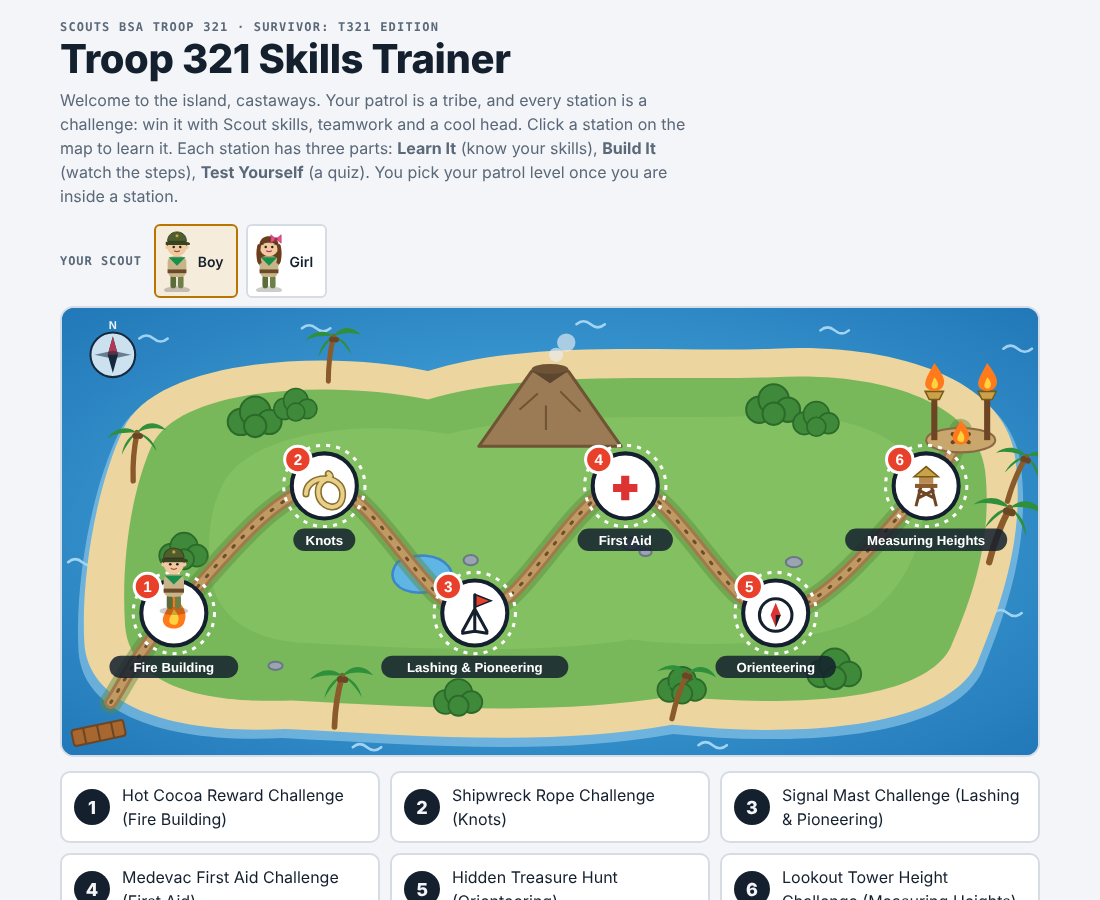
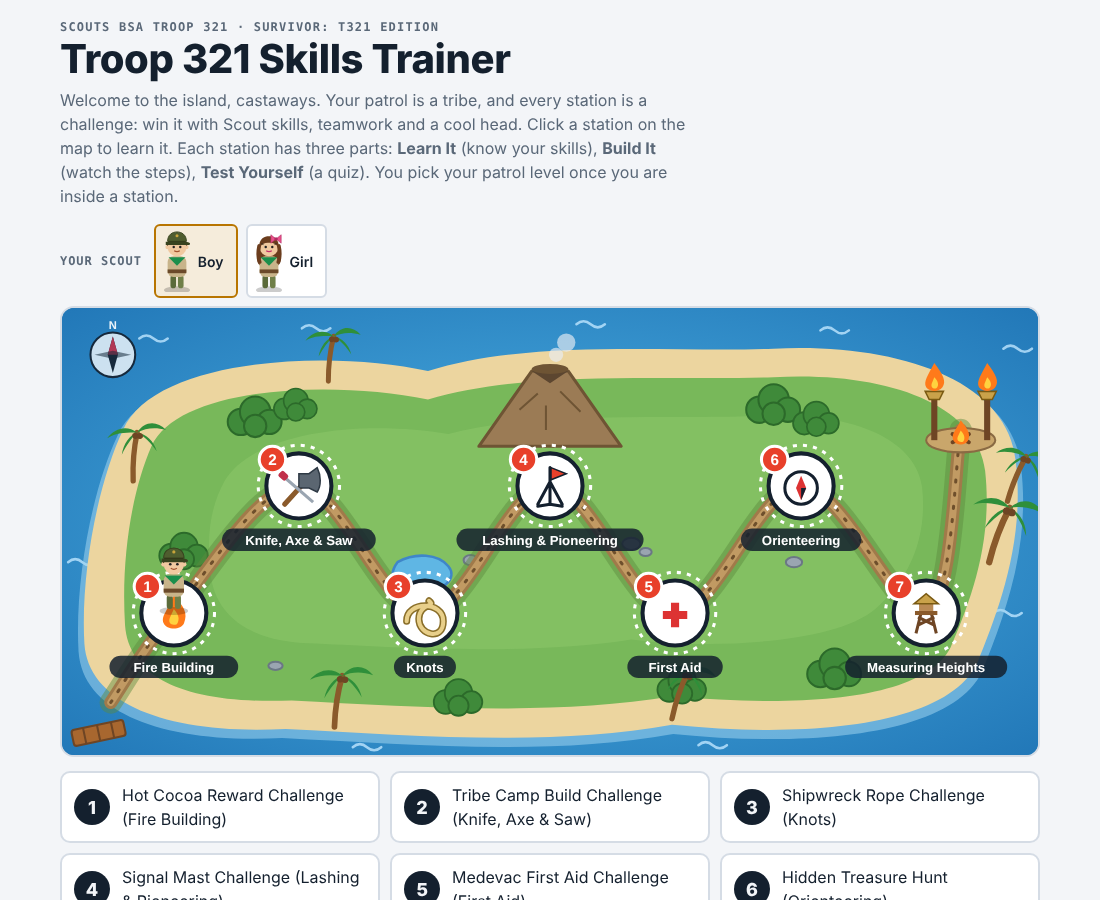
Add Knife, Axe & Saw station (Totin' Chip)
- New station 2, Tribe Camp Build Challenge (Knife, Axe & Saw), after
  Fire Building
- 32 Learn It cards with "Used for" lines: Totin' Chip; knife (blood
  circle, opening/closing, passing, cutting away, dropped knife, fuzz
  stick, tent peg, wood grain, sharpening, whetstone, care); saw (bow,
  folding, buck saw, sawbuck, using a camp saw, blade guard); axe
  (parts, axe, hatchet, axe yard, chopping block, safe use, carrying
  and passing, contact method, chopping, limbing, sharpening, mill
  file, sheath and storage). All drawings are original SVG.
- Levels: Beginner knife skills; Intermediate adds tent peg and saw;
  Advanced adds axe yard, contact method and axe sharpening
- Build It steps, judge checklist, skill tips and a 50-question quiz
- Content from Troop 321's Totin' Chip card and woods-tools handouts
  (credited in text, not linked or hosted), linked to Scouting
  America's Totin' Chip page and card, Troop Leader Resources "Woods
  tools", Troop 60, Scout Life and Scouting magazine
- README station list and resources updated; screenshots regenerated

Claude-Session: https://claude.ai/code/session_01KXBQg6WSUbtGTmjtFy61pH

diff --git a/index.html b/index.html
@@ -188,8 +188,8 @@ const scoutFig=k=>{const g=k==='girl',SK='#f0c9a0';
 /* Station order on the map. To add a station: define ST.<id> and NINFO.<id> (name, skill, res = learn-more links, ic = map icon), then add the id here.
    Ids are stable keys (saved scores use them), so never reuse or renumber an old id.
    Map positions are spread automatically; ids listed here but not in LIVE show as locked "coming soon". */
-const ORDER=['s1','s7','s3','s4','s2','s6'];
-const LIVE=['s1','s7','s3','s4','s2','s6'];
+const ORDER=['s1','s8','s7','s3','s4','s2','s6'];
+const LIVE=['s1','s8','s7','s3','s4','s2','s6'];
 const NODES=ORDER.map((id,i)=>({id,x:ORDER.length<2?480:Math.round(110+i*740/(ORDER.length-1)),y:i%2?175:300}));
 const NINFO={
  s1:{name:'Hot Cocoa Reward Challenge',skill:'Fire Building',res:[{t:'Fire Building (Troop Leader Resources)',u:'https://troopleader.scouting.org/rank-advancement-skills/campcraft/fire-building/'},{t:'NPR: How to build a campfire',u:'https://www.npr.org/2012/06/04/154162859/summer-science-how-to-build-a-campfire'}],ic:`<path d="M0-20C10-8 14-2 10 8 7 15-7 15-10 8-13 1-6-4 0-20Z" fill="#ff7a1a"/><path d="M0-6C5 0 6 4 3 9-2 11-6 8-4 3Z" fill="#ffd23f"/>`},
@@ -1480,6 +1480,198 @@ ST.s3.qb.push(
  ST.s7.steps={T:T2,W,B};
  NINFO.s7={name:'Shipwreck Rope Challenge',skill:'Knots',res:[TL,{t:'Animated Knots: Scouting knots',u:'https://www.animatedknots.com/scouting-knots'},{t:'Scouts BSA rank requirements (PDF)',u:REQ}],
   ic:`<path d="M-18 6C-18-14 18-14 18 6S-6 20-6 4 12-8 4-14" fill="none" stroke="#8a6f2a" stroke-width="7" stroke-linecap="round"/><path d="M-18 6C-18-14 18-14 18 6S-6 20-6 4 12-8 4-14" fill="none" stroke="#e8cf8a" stroke-width="4" stroke-linecap="round"/>`};
+}
+/* ================= STATION: Knife, Axe & Saw (id s8) =================
+   Sources: Troop 321 Totin' Chip card and troop handouts (content used, not linked), Scouting America
+   Totin' Chip, Troop Leader Resources "Woods tools", Troop 60 "Knife, axe and saw skills", Scout Life
+   and Scouting magazine articles. */
+{const TC=' (Troop 321 Totin\' Chip)', HO=' (troop handout)';
+ const L_TC={t:'Scouting America: Totin\' Chip',u:'https://www.scouting.org/awards/awards-central/totin-chip/'},
+  L_TCC={t:'Totin\' Chip card (PDF)',u:'https://filestore.scouting.org/filestore/boyscouts/pdf/512-023_wb.pdf'},
+  L_WT={t:'Troop Leader Resources: Woods tools',u:'https://troopleader.scouting.org/rank-advancement-skills/campcraft/woods-tools/'},
+  L_T60={t:'Troop 60: Knife, axe and saw skills',u:'https://www.troop60.co/resources/scout-skills/knife-axe-and-saw-skills'},
+  L_KS={t:'Scouting America: Knife safety moment',u:'https://www.scouting.org/health-and-safety/safety-moments/knife-safety/'},
+  L_SHK={t:'Scouting magazine: Sharpening a knife',u:'https://scoutingmagazine.org/2011/10/tips-for-sharpening-your-favorite-blade/'},
+  L_CLN={t:'Scout Life: How to clean your pocketknife',u:'https://scoutlife.org/outdoors/ask-the-gear-guy/174436/how-to-clean-your-pocketknife/'},
+  L_AX={t:'Scout Life: How to safely use an ax',u:'https://scoutlife.org/outdoors/157237/how-to-use-an-ax-to-chop-wood/'},
+  L_SHA={t:'Scout Life: How to sharpen an ax',u:'https://scoutlife.org/outdoors/outdoorarticles/2247/how-to-sharpen-an-ax/'},
+  L_SAW={t:'Scout Life: How to use a camp saw',u:'https://scoutlife.org/video-audio/146361/how-to-use-a-camp-saw/'},
+  L_BVF={t:'Scout Life: Bow saw or folding saw?',u:'https://scoutlife.org/outdoors/170125/bow-saw-or-folding-saw-which-camp-saw-should-you-get/'};
+ const bg=c=>`<rect width="200" height="140" fill="${c||'#fbfaf2'}"/>`;
+ /* drawings */
+ const knife=(open,x,y,s,ang)=>`<g transform="translate(${x||100},${y||70}) rotate(${ang||0}) scale(${s||1})"><rect x="-46" y="-10" width="70" height="20" rx="10" fill="#c0304a" stroke="#7a1f2f" stroke-width="2"/><path d="M-6-4h6v-6h4v6h6v4h-6v6h-4v-6h-6Z" fill="#fff" opacity=".9"/><circle cx="-38" cy="0" r="3" fill="#cfd5db" stroke="#7a1f2f"/>${open?`<path d="M22-6H74C82-6 86-2 86 2 80 6 50 8 22 6Z" fill="#dfe4e9" stroke="#5b6671" stroke-width="2"/><path d="M26 4H80" stroke="#9aa5b1" stroke-width="1.2"/>`:`<path d="M-30-9H18" stroke="#9aa5b1" stroke-width="2.5"/>`}</g>`;
+ const axeH=(x,y,s,ang,long)=>{const L=long?120:70;return `<g transform="translate(${x},${y}) rotate(${ang||0}) scale(${s||1})"><path d="M-6 0C-8 ${L*.5} -4 ${L*.8} -7 ${L}H7C5 ${L*.8} 8 ${L*.5} 6 0Z" fill="#b17d4a" stroke="#6e4524" stroke-width="2"/><path d="M-8-12H14L30-22C36-10 36 10 30 20L14 12H-8Z" fill="#5b6671" stroke="#2f3a45" stroke-width="2"/><path d="M28-20C33-8 33 8 28 18" stroke="#dfe4e9" stroke-width="3" fill="none"/><rect x="-12" y="-12" width="6" height="24" rx="2" fill="#3b4652"/></g>`};
+ const bowSaw=(x,y,s)=>`<g transform="translate(${x},${y}) scale(${s||1})"><path d="M-70 20C-70-30 70-30 70 20" fill="none" stroke="#e0a72e" stroke-width="7" stroke-linecap="round"/><path d="M-70 20H70" stroke="#5b6671" stroke-width="3"/><path d="M-66 22${[...Array(28)].map((_,i)=>`l2.4 4 2.4-4`).join('')}" fill="none" stroke="#5b6671" stroke-width="1.4"/><rect x="58" y="4" width="14" height="22" rx="3" fill="#2f3a45"/></g>`;
+ const foldSaw=(x,y,s)=>`<g transform="translate(${x},${y}) scale(${s||1})"><rect x="-70" y="-8" width="56" height="18" rx="8" fill="#e8402a" stroke="#7a1f2f" stroke-width="2"/><path d="M-14-6H66L60 6H-14Z" fill="#dfe4e9" stroke="#5b6671" stroke-width="2"/><path d="M-12 6${[...Array(18)].map(()=>`l2 4 2-4`).join('')}" fill="none" stroke="#5b6671" stroke-width="1.4"/></g>`;
+ const buckSaw=(x,y,s)=>`<g transform="translate(${x},${y}) scale(${s||1})"><path d="M-60-40V40M60-40V40M-60 0H60" stroke="#9aa5b1" stroke-width="6" stroke-linecap="round"/><path d="M-60-38L60-38" stroke="#6b7785" stroke-width="1.5"/><path d="M-60 38H60" stroke="#5b6671" stroke-width="3"/><path d="M-56 40${[...Array(23)].map(()=>`l2.4 4 2.4-4`).join('')}" fill="none" stroke="#5b6671" stroke-width="1.4"/></g>`;
+ const stone=(x,y,s)=>`<g transform="translate(${x},${y}) scale(${s||1})"><rect x="-60" y="-12" width="120" height="14" rx="2" fill="#8d99a6" stroke="#4a5562" stroke-width="2"/><rect x="-60" y="2" width="120" height="12" rx="2" fill="#5fa6d6" stroke="#2f6f9c" stroke-width="2"/></g>`;
+ const file=(x,y,s,ang)=>`<g transform="translate(${x},${y}) rotate(${ang||0}) scale(${s||1})"><rect x="-60" y="-6" width="96" height="12" rx="2" fill="#8d99a6" stroke="#4a5562" stroke-width="2"/>${[...Array(16)].map((_,i)=>`<path d="M${-56+i*6} -5l3 10" stroke="#5b6671" stroke-width="1"/>`).join('')}<rect x="36" y="-4" width="30" height="8" rx="3" fill="#6e4524"/></g>`;
+ const block=(x,y,s)=>`<g transform="translate(${x},${y}) scale(${s||1})"><rect x="-34" y="-14" width="68" height="40" fill="#b17d4a" stroke="#6e4524" stroke-width="2"/><ellipse cx="0" cy="-14" rx="34" ry="10" fill="#d9b183" stroke="#6e4524" stroke-width="2"/><ellipse cx="0" cy="-14" rx="20" ry="6" fill="none" stroke="#b17d4a" stroke-width="1.5"/><ellipse cx="0" cy="-14" rx="8" ry="2.5" fill="none" stroke="#b17d4a" stroke-width="1.5"/></g>`;
+ const ring=(x,y,r,c)=>`<circle cx="${x}" cy="${y}" r="${r}" fill="none" stroke="${c||'#c0304a'}" stroke-width="3" stroke-dasharray="7 5"/>`;
+ const log=(x1,y1,x2,y2,w)=>P(x1,y1,x2,y2,w||16);
+ const D={
+  bloodCircle:bg('#dfe9d2')+ring(100,70,52)+stand(100,108,1)+`<path d="M108 66H148" stroke="#c8b48a" stroke-width="6" stroke-linecap="round"/>`+knife(false,158,66,.35)+tx(100,134,'an arm\'s length all around',{s:11,f:'#c0304a'}),
+  pocketknife:bg()+knife(true,96,72,1.05),
+  openClose:bg()+knife(false,60,46,.7)+`<path d="M98 46H120" stroke="#14202e" stroke-width="2.5"/><path d="M114 40 122 46 114 52" fill="none" stroke="#14202e" stroke-width="2.5"/>`+knife(true,150,46,.55)+tx(100,104,'pinch the nail groove;',{s:11})+tx(100,120,'fingers clear when closing',{s:11}),
+  pass:bg()+`<path d="M20 90C40 80 60 78 80 80" stroke="#f0c9a0" stroke-width="12" stroke-linecap="round"/><path d="M180 90C160 80 140 78 120 80" stroke="#e0b48a" stroke-width="12" stroke-linecap="round"/>`+knife(false,100,74,.55)+`<g transform="translate(150,28)"><rect x="-38" y="-14" width="76" height="26" rx="10" fill="#fff" stroke="#1a8f4c" stroke-width="2"/>${tx(0,4,'"Thank you!"',{s:11,f:'#1a8f4c'})}</g>`,
+  cutAway:bg()+P(40,96,150,70,12)+knife(true,128,62,.6,-14)+`<path d="M150 44l26-8" stroke="#1a8f4c" stroke-width="3"/><path d="M170 30l8 6-10 4" fill="none" stroke="#1a8f4c" stroke-width="3"/>`+tx(100,126,'cut away from your body',{s:12,f:'#1a8f4c'}),
+  dropped:bg()+knife(true,110,104,.55,20)+`<path d="M60 40l-20 0M60 40l-6-6M60 40l-6 6" stroke="#c0304a" stroke-width="3" fill="none"/>`+tx(100,30,'never catch a falling knife',{s:12,f:'#c0304a'}),
+  sharpenKnife:bg()+stone(100,96,1.1)+knife(true,104,74,.75,-8)+`<path d="M150 82 186 82" stroke="#14202e" stroke-width="1.5"/><path d="M150 82 182 72" stroke="#14202e" stroke-width="1.5"/>`+tx(176,64,'15°',{s:12,f:'#c0304a'}),
+  care:bg('#eef4fb')+knife(true,100,60,.9)+`<g fill="#5fa6d6">${[0,1,2].map(i=>`<path d="M${70+i*30} 96q4 8 0 12-4-4 0-12Z"/>`).join('')}</g>`+tx(100,130,'clean · dry · oil',{s:12}),
+  fuzz:bg()+P(30,100,170,40,12)+[0,1,2,3,4,5].map(i=>`<path d="M${70+i*16} ${83-i*7}c-6 6-10 14-8 22" stroke="#e6c48a" stroke-width="3" fill="none"/>`).join(''),
+  peg:bg()+`<path d="M24 74 40 64H160L170 74 160 84H40Z" fill="#b17d4a" stroke="#6e4524" stroke-width="2"/><path d="M24 74H8" stroke="#6e4524" stroke-width="2"/><path d="M128 64V72L146 64Z" fill="#fbfaf2" stroke="#6e4524" stroke-width="2"/>`+tx(140,52,'bird\'s mouth',{s:11})+tx(30,100,'tapered end',{s:11}),
+  grain:bg()+`<rect x="30" y="40" width="140" height="56" rx="6" fill="#d9b183" stroke="#6e4524" stroke-width="2"/>${[50,62,74,86].map(y=>`<path d="M30 ${y}C80 ${y-6} 120 ${y+6} 170 ${y}" stroke="#a8672f" stroke-width="1.5" fill="none"/>`).join('')}<path d="M60 116H140" stroke="#1a8f4c" stroke-width="3"/><path d="M134 110 142 116 134 122" fill="none" stroke="#1a8f4c" stroke-width="3"/>`,
+  bowSaw:bg()+bowSaw(100,78,1),
+  foldSaw:bg()+foldSaw(100,70,1.05),
+  buckSaw:bg()+buckSaw(100,70,1),
+  sawbuck:bg('#dfe9d2')+P(40,120,80,40,8)+P(80,120,40,40,8)+P(120,120,160,40,8)+P(160,120,120,40,8)+log(20,62,180,62,18),
+  sawStance:bg('#dfe9d2')+log(20,96,150,96,18)+`<rect x="92" y="104" width="14" height="30" fill="#6e4524"/>`+`<path d="M150 72V126" stroke="#5b6671" stroke-width="4"/>`+`<path d="M60 84h18" stroke="#f0c9a0" stroke-width="10" stroke-linecap="round"/><path d="M78 74V118" stroke="#c0304a" stroke-width="1.5" stroke-dasharray="3 3"/><path d="M150 66V60" stroke="none"/>${tx(114,60,'6 in+',{s:12,f:'#c0304a'})}<path d="M86 64H142" stroke="#c0304a" stroke-width="1.5"/>`,
+  sheath:bg()+bowSaw(100,72,.9)+`<path d="M40 90H160" stroke="#2f8f3a" stroke-width="10" stroke-linecap="round"/>`+tx(100,124,'cover the teeth',{s:12}),
+  axeParts:bg()+axeH(80,40,.9,0,true)+[['head',122,30],['bit',148,48],['eye',74,18],['poll',52,40],['handle',100,110]].map(([t,x,y])=>tx(x,y,t,{s:11})).join(''),
+  hatchet:bg()+axeH(92,40,1,0,false),
+  axeYard:bg('#dfe9d2')+`<rect x="26" y="20" width="148" height="100" fill="none" stroke="#e8402a" stroke-width="3" stroke-dasharray="8 4"/><path d="M90 120h20" stroke="#dfe9d2" stroke-width="5"/>`+block(100,78,.8)+tx(100,136,'one way in',{s:11,f:'#c0304a'}),
+  chopBlock:bg()+block(100,82,1.3)+axeH(106,40,.6,30,false),
+  carryAxe:bg('#dfe9d2')+stand(80,118,1.3)+axeH(104,92,.5,180,false)+`<path d="M120 70l26 0" stroke="#1a8f4c" stroke-width="3"/><path d="M140 64l8 6-8 6" fill="none" stroke="#1a8f4c" stroke-width="3"/>`+tx(150,40,'blade out',{s:11,f:'#1a8f4c'}),
+  passAxe:bg()+axeH(100,52,.7,90,false)+`<path d="M20 96C40 86 50 82 60 82" stroke="#f0c9a0" stroke-width="12" stroke-linecap="round"/>`+tx(100,122,'handle first',{s:12,f:'#1a8f4c'}),
+  sheathAxe:bg()+axeH(70,40,.9,0,false)+`<path d="M62 20H104L114 30V50L104 60H62Z" fill="#8a5a2b" stroke="#5c3a1a" stroke-width="2"/><circle cx="100" cy="40" r="3" fill="#d9b183"/>`,
+  contact:bg()+block(100,92,1.1)+`<rect x="94" y="40" width="12" height="36" fill="#d9b183" stroke="#6e4524" stroke-width="2"/>`+axeH(106,52,.55,-90,false)+`<path d="M40 30v40M34 64l6 8 6-8" fill="none" stroke="#1a8f4c" stroke-width="3"/>`+tx(46,22,'together',{s:11,f:'#1a8f4c'}),
+  chop45:bg()+log(20,96,180,96,26)+`<path d="M90 84 100 96 110 84" fill="#fbfaf2" stroke="#6e4524" stroke-width="2"/><path d="M60 40 96 82M140 40 104 82" stroke="#c0304a" stroke-width="2" stroke-dasharray="4 4"/>`+tx(56,32,'45°',{s:12,f:'#c0304a'})+tx(144,32,'45°',{s:12,f:'#c0304a'}),
+  limbing:bg('#dfe9d2')+log(10,86,190,74,20)+P(80,82,60,40,5)+P(130,78,150,36,5)+`<path d="M60 100 150 94" stroke="#1a8f4c" stroke-width="2"/><path d="M144 88 152 94 144 100" fill="none" stroke="#1a8f4c" stroke-width="2"/>`+tx(110,116,'toward the top of the tree',{s:11,f:'#1a8f4c'}),
+  sharpenAxe:bg('#dfe9d2')+axeH(70,74,.8,-90,false)+`<path d="M30 60v30M40 60v30" stroke="#6e4524" stroke-width="5"/>`+log(130,96,190,96,22)+file(110,62,.7,-20),
+  store:bg()+axeH(60,40,.8,0,false)+`<path d="M52 20H94L104 30V50L94 60H52Z" fill="#8a5a2b" stroke="#5c3a1a" stroke-width="2"/>`+`<g transform="translate(150,70)"><path d="M-6-30h12l4 10H-10Z" fill="#cfe9ff" stroke="#1f5fae" stroke-width="2"/><rect x="-10" y="-20" width="20" height="40" rx="3" fill="#e0a72e" stroke="#8a6a1a" stroke-width="2"/>${tx(0,6,'oil',{s:10,f:'#5c3a1a'})}</g>`,
+  totin:bg()+`<rect x="40" y="30" width="120" height="80" rx="8" fill="#e8402a" stroke="#8a1f12" stroke-width="3"/><rect x="50" y="40" width="100" height="60" rx="5" fill="#f3e3c8"/>${tx(100,94,'TOTIN\' CHIP',{s:12,f:'#8a1f12'})}`+axeH(76,50,.32,30,false)+knife(true,118,62,.32,-30),
+ };
+ const I=(c,n,u,d,id,lk,q,use)=>({c,n,u,d,id,lk,q,use});
+ ST.s8={id:'s8',n:2,name:'Tribe Camp Build Challenge',
+  scenario:'Night is coming and your tribe has no camp. Make fuzz sticks for the fire, carve tent pegs for the shelter, and cut and split firewood. Every tool is sharp, so earn your Totin\' rights by using each one safely. 20 to 30 minutes, 50 points.',
+  time:{T:20,W:25,B:30},
+  clockNote:'The clock is set to your level\'s time.',
+  notes:'A knife, axe or saw is a tool, not a toy. You need your Totin\' Chip before you use them, and an adult must supervise practice. This trainer teaches the steps; practice the real thing only with a leader.',
+  idPlan:{T:[['t',4]],W:[['t',4]],B:[['t',4]]},idCat:'gear',
+  goal:{T:{t:'Knife skills',d:'Check your blood circle, open and close a pocketknife safely, pass it closed, and make a fuzz stick that will light. Show how to clean and care for your knife.'},
+   W:{t:'Knife and saw skills',d:'Do everything Beginner patrols do. Also carve a tent peg with a bird\'s mouth, and cut a piece of firewood with a camp saw, with the wood held firmly and your hand well away from the blade.'},
+   B:{t:'Knife, saw and axe skills',d:'Do everything Intermediate patrols do. Also set up an axe yard with a chopping block, carry and pass an axe safely, split wood with the contact method, and show how to sharpen an axe.'}},
+  judge:{T:['Safety circle and handling (20): blood circle checked, blade closed when not in use or passed, "thank you" before letting go, cutting away from the body.','Knife skills (15): a fuzz stick with shavings still attached.','Care (10): knife cleaned, dried and closed; explain how to sharpen it.','Teamwork (5): everyone takes a turn and watches each other\'s safety.'],
+   W:['Safety circle and handling (20): as Beginner, plus carrying the saw with the blade turned away.','Knife and saw skills (15): fuzz stick, tent peg with a bird\'s mouth, and one clean saw cut.','Care (10): knife and saw cleaned and guarded; explain how to sharpen the knife.','Teamwork (5): everyone takes a turn and watches each other\'s safety.'],
+   B:['Safety circle and handling (20): as Intermediate, plus an axe yard with one entrance and one person at a time.','Tool skills (15): fuzz stick, tent peg, saw cut, and contact-method splitting.','Care (10): all tools cleaned and guarded; show how to sharpen an axe.','Teamwork (5): everyone takes a turn and watches each other\'s safety.']},
+  items:[
+   I('Totin\' Chip','Totin\' Chip','Scouting America\'s card that says you know how to handle a pocketknife, axe and saw. You read the woods-tools safety rules, show proper handling, care and use, use the tools as tools and not playthings, respect safety rules and property, and subscribe to the Outdoor Code. Your Totin\' rights can be taken away if you fail in your responsibility; Troop 321 uses a 3-strikes rule, and a major safety violation or an injury can end the privilege right away.'+TC,D.totin,'x',[L_TC,L_TCC],'totin chip card scouts','Showing you are trusted to use woods tools at troop outings.'),
+   I('Knife','Pocketknife','A knife is a tool, not a toy. Keep it closed when you are not using it, carry it in your pocket or a pouch, never throw it, and never strike it with another tool or pry with it. Obey school rules that do not allow knives. For cooking, a cook\'s knife made for the job is often better.'+TC+HO,D.pocketknife,'t',[L_KS,L_T60],'scout pocketknife','Whittling, cutting cord, making fuzz sticks and tent pegs, and small camp jobs.'),
+   I('Knife','Blood circle','The area you can reach with a knife: an arm\'s length all around and above you. Hold the CLOSED knife, stretch out your arm and turn slowly. If no one and nothing is inside the circle, it is safe to open and use the knife. Check it again if someone comes near.'+TC,D.bloodCircle,'x',[L_T60,L_KS],'knife safety blood circle','Making sure no one can be cut before you open a knife, saw or axe.'),
+   I('Knife','Opening and closing','Grip the handle and use your thumbnail and forefinger in the nail groove to pull the blade out all the way, so it cannot snap back. To close it, fold the blade halfway with your palm on the back of the blade, then let it snap into the handle with your fingers out of the way. New knives are stiff, so go slowly.'+HO,D.openClose,'x',[L_T60],'how to open and close a pocketknife safely','Every time you use a folding knife.'),
+   I('Knife','Passing a knife','Close the blade before you pass it. Hold on until the other person says "thank you" or "got it," so you both know they have it.'+TC,D.pass,'x',[L_T60],'how to pass a pocketknife safely','Handing a knife to a buddy without anyone getting cut.'),
+   I('Knife','Cut away from yourself','Always cut away from your body, so a slip will not hurt you. Grip firmly, make slow, controlled cuts, and sit on a log or bench with your elbows on your knees. A sharp blade needs less force, so it is less likely to slip.'+TC+HO,D.cutAway,'x',[L_T60],'cut away from body knife safety','Whittling and every other cutting job.'),
+   I('Knife','Dropped knife','Never try to catch a falling knife. Step back, let it land, then pick it up and check the blade for damage before you use it again.'+TC,D.dropped,'x',[],'dropped knife safety','Staying safe when a knife slips out of your hand.'),
+   I('Knife','Fuzz stick','Take a dry stick ½ to 1 inch thick and shave thin curls along its side, leaving each curl attached. The thin shavings catch fire easily and light the rest of the stick.'+TC,D.fuzz,'x',[L_WT],'fuzz stick fire','Starting a fire when tinder is scarce or damp.'),
+   I('Knife','Tent peg','Take a stick about 1 inch thick and 9 inches long and taper one end to a point. On the top third, cut a break about ⅓ of the way through, then notch toward it with small bites (5 to 10 cuts) to make a bird\'s mouth that catches a tent rope without it slipping off.'+TC,D.peg,'x',[L_T60],'carve wooden tent stake birds mouth','Replacing a lost tent stake, or staking tarps and dining flies.'),
+   I('Knife','Wood grain','Most cuts should go with the grain: they peel away smoothly. Cuts against the grain tear and split the wood. If you cannot see the grain, make a few small, shallow test cuts.'+HO,D.grain,'x',[],'wood grain whittling','Whittling and carving cleanly.'),
+   I('Knife care','Sharpening a knife','A sharp knife is safer than a dull one. Oil or soak the stone, then hold the back of the blade raised about 15° (two stacked pennies under the back help). Make about six strokes along the whole edge on one side, turn the blade over and repeat. Start on the rough side of the stone and finish on the smooth side. Sharpen the whole edge, or it will become uneven.'+TC+HO,D.sharpenKnife,'x',[L_SHK,L_WT],'how to sharpen a pocketknife whetstone','Keeping your knife sharp so it cuts cleanly and does not slip.'),
+   I('Knife care','Whetstone','A sharpening stone with a rough side for a dull or nicked edge and a smooth side for finishing. Use a thin film of oil, or water on water stones. Wash and dry it after use.'+HO,stone(100,70,1.2).replace(/^/,bg()),'t',[L_SHK],'whetstone sharpening stone','Sharpening knives and keeping the edge even.'),
+   I('Knife care','Knife care','Keep the knife clean and dry so it does not rust or get "tight." If it gets wet, dry it completely and rub a thin coat of oil on the metal parts. Clean it before and after cutting food, keep dirt out of the handle, and never put it in a dishwasher.'+TC,D.care,'x',[L_CLN],'how to clean a pocketknife','Making your knife last and keeping it safe to open and close.'),
+   I('Saw','Bow saw','A thin blade held tight in a bow-shaped frame, with a handle that adjusts the tension. It cuts firewood and logs quickly. Most bow saws cut on the push stroke and have more support than a folding saw.'+HO,D.bowSaw,'t',[L_BVF,L_T60],'bow saw camping','Cutting firewood to length and clearing fallen logs.'),
+   I('Saw','Folding saw','A small saw whose blade folds into the handle. It is made to cut on the pull stroke; pushing hard can bend or snap its thin blade. Open and close it with your fingers clear of the teeth.',D.foldSaw,'t',[L_T60,L_BVF],'folding camp saw','Cutting small branches and firewood on hikes and backpacking trips.'),
+   I('Saw','Buck saw','A saw with a rectangular frame and a handle at one end. Some take apart to pack in a tube.'+HO,D.buckSaw,'t',[],'buck saw frame','Cutting larger logs in camp.'),
+   I('Saw','Using a camp saw','Carry the saw with the blade turned away from your body. Rest the wood on a support and hold it firmly, with your supporting hand at least 6 inches from the blade so the saw cannot jump into it. Line your body up with the cut and bend your knees. Start slowly by pulling the blade back toward you until it bites, then push and pull in a steady rhythm using the whole blade. Let the saw do the work.'+TC+HO,D.sawStance,'x',[L_SAW,L_WT],'how to use a bow saw safely','Cutting firewood to the length you need.'),
+   I('Saw','Sawbuck','A pair of crossed legs that holds a log steady at a comfortable height while you saw.'+HO,D.sawbuck,'t',[],'sawbuck log holder','Holding a log steady and off the ground for safer sawing.'),
+   I('Saw','Blade guard','Keep a guard over the saw teeth when you carry or store it. A slit piece of old garden hose makes a good one. Replace a blade when it gets too dull.',D.sheath,'x',[L_SAW],'saw blade guard','Protecting hands, packs and the blade between uses.'),
+   I('Axe','Parts of an axe','The head has the bit (blade) with its toe and heel, the cheek, the eye where the handle fits, and the poll (butt) at the back. The handle runs from the shoulder through the belly and throat to the knob.'+TC+HO,D.axeParts,'x',[L_AX],'parts of an axe','Knowing what to check before you use an axe: a tight head, a sound handle and a sharp bit.'),
+   I('Axe','Axe','A full-length axe is swung with two hands. Troop 60 calls the axe, including the hatchet, the most dangerous tool a Scout will use; leather gloves and boots will not stop it.',axeH(92,22,.85,0,true).replace(/^/,bg()),'t',[L_AX,L_T60],'camp axe full length','Splitting firewood and limbing fallen trees, with training and adult supervision.'),
+   I('Axe','Hatchet','A small, short-handled axe used with one hand. When learning, work kneeling down. A hatchet\'s short handle makes it hard to swing accurately for limbing.',D.hatchet,'t',[L_AX],'hatchet camping','Splitting kindling and small firewood.'),
+   I('Axe','Axe yard','A safe, roped-off area for chopping. Use brightly colored rope and one entrance, and make it big enough to work with clear space above and to the sides. Only one person is inside (two when training), and you enter only when the person inside says so. Keep a chopping block in it, and clean up chips and bark when you finish.'+TC,D.axeYard,'x',[L_AX,L_T60],'axe yard scout camp','Keeping everyone clear of a swinging axe in camp.'),
+   I('Axe','Chopping block','A thick, sawed-off log to chop on, so a blade that goes through the wood hits the block and not the ground. Never chop into the ground: rocks break axe blades. Keep the axe "buried" in the block between uses.'+TC,D.chopBlock,'t',[L_AX],'chopping block axe','Splitting wood safely and protecting the axe blade.'),
+   I('Axe','Safe axe use','Wear closed-toe shoes with good tread. Check the axe first: tight head, sound handle, sharp blade. Clear your swing area by turning slowly with the axe at arm\'s length, and keep everyone at least 10 feet away. Keep it sheathed until you are ready, and never chop when you are tired.'+TC,D.sheathAxe,'x',[L_AX],'axe safety','Every time you use an axe or hatchet.'),
+   I('Axe','Carrying and passing an axe','Carry it at your side in one hand with the blade turned out, away from your body, and sheathed if you can. If you stumble, toss it away from you as you fall. Never carry it on your shoulder. To pass it, hold it so the handle points toward the other person.'+TC,D.carryAxe,'x',[L_AX],'how to carry an axe safely','Moving an axe around camp without hurting anyone.'),
+   I('Axe','Contact method','A safe way to split sticks and small firewood. Rest the axe blade on the wood, then lift the axe and wood together and strike them down on the chopping block. The blade sinks into the wood, and a twist finishes the split.'+TC,D.contact,'x',[L_T60],'axe contact splitting method','Splitting kindling and small firewood with control.'),
+   I('Axe','Chopping a log','Hold the axe firmly and chop in a slow, controlled way. Strike at about a 45° angle, alternating from the left and right sides of your target, until you cut through. Make sure there is no rock or metal under the wood.'+HO,D.chop45,'x',[L_AX],'how to chop a log with an axe','Cutting through a log when you do not have a saw.'),
+   I('Axe','Limbing','Cutting branches off a fallen tree. Stand on one side of the trunk and cut branches on the other side, so the trunk is between you and the blade, working from the base toward the top of the tree.'+HO,D.limbing,'x',[L_AX],'limbing a fallen tree with an axe','Clearing branches from a fallen tree for firewood or a trail.'),
+   I('Axe','Sharpening an axe','Use an 8 to 10 inch file; a good file is a drab gray, while a shiny one has broken teeth. Wear leather gloves and put a guard on the file. Brace the axe head between a small log and two pegs, with a buddy steadying the handle. Push the file into the bit, and lift it on the way back: dragging it back breaks the teeth. File one side from heel to toe, then turn the axe over and do the other side. (Troop 321\'s black practice axe does not get sharpened.)'+TC,D.sharpenAxe,'x',[L_SHA],'how to sharpen an axe with a file','Keeping an axe sharp so it bites into wood instead of glancing off.'),
+   I('Axe','Mill file','A flat file, 8 to 10 inches long, used to sharpen axes. It cuts only when pushed away from the tang.'+TC,file(100,70,1.3).replace(/^/,bg()),'t',[L_SHA],'mill bastard file axe sharpening','Sharpening an axe in camp.'),
+   I('Axe','Sheath and storage','Sheath the axe whenever it is not in use, and never leave it lying around. Before storing, wipe it dry, oil it lightly, and keep it indoors in a dry place. Sun can warp the handle and damp shade can rust the head.',D.store,'x',[L_AX],'axe sheath storage','Protecting people and the blade between uses.'),
+  ],
+  cats:[{k:'gear',n:'Totin\' Chip and tools (warm-up, not scored)',pts:{T:0,W:0,B:0}},{k:'knife',n:'Knife safety and skills',pts:{T:20,W:15,B:10}},{k:'care',n:'Sharpening and care',pts:{T:10,W:10,B:10}},{k:'saw',n:'Saw',pts:{T:10,W:15,B:10}},{k:'axe',n:'Axe',pts:{T:5,W:5,B:15}},{k:'safe',n:'Safety and teamwork',pts:{T:5,W:5,B:5}}],
+  qb:[
+   Q('gear','TWB','What do you need before you use a knife, axe or saw on a troop outing?','Your Totin\' Chip',['A merit badge sash','A cooking permit','Nothing'],'Scouts earn the Totin\' Chip before using woods tools.'),
+   Q('gear','TWB','What happens if a Scout fails in their responsibility with woods tools?','Their Totin\' rights can be taken away',['Nothing','They get a bigger knife','They skip the next campout automatically'],'Troop 321 uses a 3-strikes rule, and a major violation or injury can end the privilege immediately (Troop 321 Totin\' Chip).'),
+   Q('gear','TWB','When can you cut a living or dead tree?','Only with permission and a good reason',['Whenever you need firewood','Only at night','Never, under any circumstances'],'Respect property: cut living and dead trees only with permission and good reason (Totin\' Chip).'),
+   Q('gear','TWB','What does the Totin\' Chip say about knives, axes and saws?','Use them as tools, not playthings',['Use them as fast as you can','Share them with Cub Scouts','Keep them sharp enough to throw'],'Totin\' Chip requirement 3.'),
+   Q('knife','TWB','What is a blood circle?','The area you can reach with a knife: an arm\'s length all around and above you',['A first aid bandage','A red line on the knife','A circle drawn in the dirt for games'],'Check it with the knife closed, turning slowly (Troop 321 Totin\' Chip).'),
+   Q('knife','TWB','How do you check your blood circle?','Hold the closed knife at arm\'s length and turn slowly all the way around',['Open the knife and swing it','Ask the patrol leader','Look straight ahead only'],'If no one is inside the circle, it is safe to work.'),
+   Q('knife','TWB','How should a pocketknife be passed?','Closed, and you let go only after they say "thank you" or "got it"',['Open, blade first','Tossed underhand','Open, handle first'],'Keep blades closed when carrying and passing them (Troop 321 Totin\' Chip).'),
+   Q('knife','TWB','Which direction should you cut?','Away from your body',['Toward your thumb','Toward your buddy','Any direction that is fastest'],'If the blade slips, it moves away from you.'),
+   Q('knife','TWB','You drop an open knife. What do you do?','Step back and let it fall, then check it before using it again',['Catch it quickly','Kick it away','Grab it by the blade'],'Never try to catch a falling knife (Troop 321 Totin\' Chip).'),
+   Q('knife','TWB','Why is a sharp knife safer than a dull one?','A dull blade needs more force and is more likely to slip',['A sharp knife is lighter','Dull knives rust faster','It is not; dull is safer'],'Use only sharp, clean blades; they are less likely to slip.'),
+   Q('knife','TWB','How do you close a folding blade safely?','Fold it halfway with your palm on the back of the blade, then let it snap shut with fingers clear',['Slam it shut on your leg','Push the edge with your fingers','Close it against a rock'],'Keep your fingers out of the blade\'s path.'),
+   Q('knife','TWB','How do you open a pocketknife blade?','Pinch the nail groove with thumbnail and forefinger and pull it all the way open',['Pry it open with another knife','Bite it open','Flick it with your wrist'],'Pull it fully open so it will not snap back.'),
+   Q('knife','TWB','Which of these should you NEVER do with a pocketknife?','Pry with it or strike it with another tool',['Keep it closed in your pocket','Clean it after use','Cut away from your body'],'Prying and striking can snap the blade (Troop 321 Totin\' Chip).'),
+   Q('knife','TWB','How thick should a stick for a fuzz stick be?','About ½ to 1 inch',['As thick as your leg','As thin as a hair','About 6 inches'],'Shave curls along the side and leave them attached (Troop 321 Totin\' Chip).'),
+   Q('knife','TWB','Why leave the shavings attached on a fuzz stick?','The thin curls catch fire easily and light the rest of the stick',['So it looks nicer','To make it heavier','So you can count them'],'The heat from the curls ignites the stick.'),
+   Q('knife','TWB','What holds the rope on a carved tent peg?','A bird\'s mouth notch on its top third',['Glue','A hole drilled through it','Nothing; the rope just wraps around'],'Cut a break about a third of the way through, then notch toward it (Troop 321 Totin\' Chip).'),
+   Q('knife','TWB','When whittling, which way should most cuts go?','With the grain',['Against the grain','Across the grain only','It does not matter'],'Cuts with the grain peel smoothly; cuts against it tear and split.'),
+   Q('care','TWB','At about what angle do you hold the back of a pocketknife blade on the stone?','About 15 degrees',['90 degrees','Flat at 0 degrees','45 degrees'],'Two stacked pennies under the back of the blade give about the right angle (Troop 321 Totin\' Chip).'),
+   Q('care','TWB','How many strokes on one side before you turn the blade over?','About six',['One','About fifty','Only on one side, never turn it'],'Sharpen the whole edge evenly on both sides (Troop 321 Totin\' Chip).'),
+   Q('care','TWB','Which side of the sharpening stone do you start on?','The rough (coarse) side, then finish on the smooth side',['The smooth side only','The side of the box','Neither; use a rock'],'Rough grit shapes the edge; fine grit finishes it.'),
+   Q('care','TWB','What goes on a natural sharpening stone before you sharpen?','A thin film of oil',['Mud','Nothing at all','Glue'],'Oil floats away the metal bits (Scouting magazine). Water stones are soaked in water instead.'),
+   Q('care','TWB','Your knife got wet. What should you do?','Dry it completely and rub a thin coat of oil on the metal parts',['Put it in the dishwasher','Leave it open in the rain','Wrap it in a wet towel'],'This prevents rust (Troop 321 Totin\' Chip).'),
+   Q('care','TWB','Where should you NEVER clean a pocketknife?','In a dishwasher',['With a damp cloth','With a cotton swab','With warm soapy water by hand'],'Clean it by hand and dry it.'),
+   Q('care','TWB','When should you clean a knife used for food?','Before and after cutting food',['Only once a year','Never','Only after the campout'],'Keep food safe (Troop 321 Totin\' Chip).'),
+   Q('care','B','What tool do you use to sharpen an axe?','An 8 to 10 inch file',['A whetstone the size of a coin','Sandpaper','A rock from the creek'],'A good file is drab gray; a shiny one has broken teeth (Troop 321 Totin\' Chip).'),
+   Q('care','B','When sharpening an axe with a file, when does the file cut?','Only when you push it away from the tang',['Only when you pull it back','Both ways equally','Only when wet'],'Lift it on the return stroke; dragging it back breaks the teeth.'),
+   Q('care','B','What protects your hands when filing an axe?','Leather gloves and a guard on the file',['Bare hands for a better grip','Oven mitts only','A bandage'],'A plastic coffee-can lid makes a good file guard (Troop 321 Totin\' Chip).'),
+   Q('saw','TWB','How should you carry a saw?','With the blade turned away from your body',['On your shoulder with teeth up','Swinging at your side','Blade toward your leg'],'Troop 321 Totin\' Chip.'),
+   Q('saw','TWB','How far should your supporting hand stay from the saw blade?','At least 6 inches',['Touching the blade','1 inch','It does not matter'],'Closer than that and the saw can jump and cut your hand.'),
+   Q('saw','TWB','How do you start a saw cut?','Pull the blade back toward you slowly until it bites into the wood',['Push hard right away','Hit the wood with the saw','Start in the middle of the blade with short jabs'],'Then push and pull in a steady rhythm using the whole blade (Troop 321 Totin\' Chip).'),
+   Q('saw','TWB','Which stroke does a folding saw cut on?','The pull stroke',['The push stroke','Neither','Only sideways'],'Pushing hard can bend or snap its thin blade (Troop 60).'),
+   Q('saw','TWB','What holds a log steady and off the ground for sawing?','A sawbuck or log support',['Your foot on the log','A buddy sitting on it','Nothing'],'A steady log makes a safer cut.'),
+   Q('saw','TWB','What is a simple guard for saw teeth?','A slit piece of old garden hose',['Duct tape over your fingers','A sock','Nothing is needed'],'Keep the blade covered when you carry or store it (Scout Life).'),
+   Q('saw','TWB','What does "let the saw do the work" mean?','Use long, smooth strokes without forcing the blade',['Push as hard as you can','Let someone else saw','Leave the saw in the log'],'Forcing a saw makes it bind and jump.'),
+   Q('axe','TWB','What is an axe yard?','A roped-off area for chopping, with one entrance',['A place to store axes','A measurement of axe length','A type of axe'],'Use brightly colored rope (Troop 321 Totin\' Chip).'),
+   Q('axe','TWB','How many people may be inside an axe yard?','One, or two when training',['As many as fit','The whole patrol','None'],'You enter only when the person inside gives permission (Troop 321 Totin\' Chip).'),
+   Q('axe','TWB','Why chop on a chopping block?','So a blade that goes through the wood hits the block, not the ground',['To make the wood heavier','So you can sit on it','It is only for decoration'],'Never chop into the ground: rocks break axe blades.'),
+   Q('axe','TWB','How do you carry an axe?','At your side in one hand, blade turned out, never on your shoulder',['On your shoulder','Over your head','By the blade'],'If you stumble, toss the axe away from you as you fall (Troop 321 Totin\' Chip).'),
+   Q('axe','TWB','How do you pass an axe to another person?','Handle first, toward the other person',['Blade first','Toss it to them','Slide it across the ground'],'Troop 321 Totin\' Chip.'),
+   Q('axe','TWB','What is the contact method?','Rest the blade on the wood, then lift both together and strike them down on the chopping block',['Swinging the axe from over your head at full speed','Holding the wood in your hand while you chop','Chopping into the ground'],'The blade sinks into the wood, and a twist finishes the split (Troop 321 Totin\' Chip).'),
+   Q('axe','TWB','At what angle do you strike when chopping through a log?','About 45 degrees, alternating left and right',['Straight down at 90 degrees only','Flat along the log','Straight up'],'Alternate sides of the target until you cut through (troop handout).'),
+   Q('axe','TWB','Where is the poll (butt) of an axe?','The back of the head, opposite the bit',['The bottom of the handle','The cutting edge','The middle of the handle'],'The bit is the blade; the knob is the end of the handle.'),
+   Q('axe','TWB','What do you check on an axe before using it?','The head is tight, the handle is sound and the blade is sharp',['Only the color','Only the sheath','Nothing'],'Use a safe axe (Troop 321 Totin\' Chip).'),
+   Q('axe','TWB','What should you do with an axe between uses in the axe yard?','Keep it "buried" in the chopping block or sheathed',['Lean it on a tree','Leave it on the ground','Hand it to the next scout outside the rope'],'Troop 321 Totin\' Chip.'),
+   Q('axe','TWB','When limbing a fallen tree, where do you stand?','On the opposite side of the trunk from the branch you are cutting',['On top of the trunk','Right under the branch','In front of the blade'],'The trunk stays between you and the blade (Scout Life).'),
+   Q('axe','TWB','How far should others stay from someone using an axe?','At least 10 feet',['2 feet','Right beside them to help','It does not matter'],'Scout Life.'),
+   Q('safe','TWB','What shoes should you wear when using an axe?','Closed-toe shoes with good tread',['Sandals','Bare feet','Flip-flops'],'They help your footing and protect your feet (Troop 321 Totin\' Chip).'),
+   Q('safe','TWB','Can leather gloves and boots stop an axe?','No, so control and a clear safety circle matter most',['Yes, always','Only new boots','Only thick gloves'],'Troop 60 warns that leather will not prevent an axe injury.'),
+   Q('safe','TWB','A buddy walks into your blood circle while you are whittling. What do you do?','Stop cutting until they move out',['Keep cutting carefully','Wave the knife to warn them','Cut faster to finish'],'Your circle must be clear before you cut.'),
+   Q('safe','TWB','When is it unsafe to use an axe?','When you are tired',['In the morning','When the axe is sharp','With a chopping block'],'Never chop when you are tired (Scout Life).')
+  ],
+  tips:['A knife, axe and saw are tools, not toys. Earn your Totin\' Chip first, and practice only with a leader.',
+   'Check your blood circle with the knife closed before you open it, and again when anyone comes near.',
+   'Keep blades closed when carrying and passing them, and wait for "thank you" before letting go.',
+   'Always cut away from your body. If you drop a knife, step back and let it fall.',
+   'A sharp knife is a safe knife: about 15° on the stone, about six strokes per side, along the whole edge.',
+   'Keep your knife clean, dry and lightly oiled; never in the dishwasher.',
+   'Carry a saw with the blade turned away; keep your free hand at least 6 inches from the blade.',
+   'Set up an axe yard with bright rope and one entrance: one person in at a time, and enter only with permission.',
+   'Chop on a chopping block, never into the ground. Carry an axe at your side, blade out, never on your shoulder.',
+   'Respect property: cut living and dead trees only with permission and good reason, and follow the Outdoor Code.']
+ };
+ const scene=(it,lines)=>L=>GROUND+`<g class="pop"><rect x="40" y="40" width="240" height="190" rx="12" fill="#fff" stroke="#14202e" stroke-width="3"/><svg x="50" y="60" width="220" height="154" viewBox="0 0 200 140">${it.d}</svg></g>`+tx(400,96,it.n,{s:19})+`<g class="fade" style="animation-delay:.8s">${tx(400,126,it.c,{s:14,f:'#5a6878'})}${(lines||'').split('|').map((l,i)=>tx(400,160+i*22,l,{s:14})).join('')}</g>`;
+ const it=n=>ST.s8.items.find(i=>i.n===n);
+ const st=(n,cap,lines)=>({t:n,cap,sc:scene(it(n),lines),dur:6});
+ const T=[st('Blood circle','Hold the closed knife at arm\'s length and turn slowly. No one inside? Safe to work.','arm\'s length|all around and above'),
+  st('Opening and closing','Pinch the nail groove to open fully; close halfway with your palm, fingers clear.','open all the way|fingers clear'),
+  st('Passing a knife','Pass it closed and let go only after "thank you."','closed blade|"thank you"'),
+  st('Cut away from yourself','Sit, elbows on knees, and cut away from your body.','slow, controlled cuts'),
+  st('Fuzz stick','Shave thin curls along a ½ to 1 inch stick, leaving them attached.','curls stay on|they light first'),
+  st('Sharpening a knife','About 15° on the stone, six strokes a side, rough side then smooth.','15° · 6 strokes|both sides'),
+  st('Knife care','Clean, dry and oil it. Never the dishwasher.','clean · dry · oil')];
+ const W=[...T,st('Tent peg','Taper one end, then cut a bird\'s mouth in the top third.','1 in × 9 in stick|bird\'s mouth'),
+  st('Using a camp saw','Blade away when carrying; hold the wood firmly, hand 6 inches from the blade; start with a slow pull.','6 inches clear|let the saw work'),
+  st('Blade guard','Cover the teeth when you carry or store the saw.','slit garden hose')];
+ const B=[...W,st('Axe yard','Rope it off with one entrance; one person inside, enter with permission.','one way in|one person'),
+  st('Carrying and passing an axe','At your side, blade out; pass it handle first.','never on your shoulder'),
+  st('Contact method','Blade on the wood, lift both, strike down on the block.','split with control'),
+  st('Sharpening an axe','Gloves, file guard, push into the bit, lift on the return.','8 to 10 in file|push only')];
+ ST.s8.steps={T,W,B};
+ NINFO.s8={name:'Tribe Camp Build Challenge',skill:'Knife, Axe & Saw',res:[L_WT,L_TC,L_T60],
+  ic:`<path d="M-14 16 6-6" stroke="#8a5a2b" stroke-width="5" stroke-linecap="round"/><path d="M0-14H10L18-20C22-12 22-2 18 4L10 0H0Z" fill="#5b6671" stroke="#2f3a45" stroke-width="1.5"/><path d="M-16-12 14 14" stroke="#9aa5b1" stroke-width="3"/><rect x="-20" y="-16" width="9" height="7" rx="2" fill="#c0304a" transform="rotate(42 -16 -12)"/>`};
 }
 /* ---- Learn It card order: basics first, then techniques; cards for higher levels only go last.
    Add new card names here; any card not listed is kept, after the listed ones. ---- */

diff --git a/README.md b/README.md
@@ -32,11 +32,12 @@ Requirements and scoring differ by level, so the steps, judge checklist, time li
 | # | Skill | Station |
 |---|---|---|
 | 1 | Fire building | Hot Cocoa Reward Challenge |
-| 2 | Knots (Scout, Tenderfoot, Second Class and First Class rank knots) | Shipwreck Rope Challenge |
-| 3 | Lashing and pioneering | Signal Mast Challenge |
-| 4 | First aid | Medevac First Aid Challenge |
-| 5 | Orienteering (map and compass) | Hidden Treasure Hunt |
-| 6 | Orienteering (estimating height) | Lookout Tower Height Challenge |
+| 2 | Knife, axe and saw (Totin' Chip) | Tribe Camp Build Challenge |
+| 3 | Knots (Scout, Tenderfoot, Second Class and First Class rank knots) | Shipwreck Rope Challenge |
+| 4 | Lashing and pioneering | Signal Mast Challenge |
+| 5 | First aid | Medevac First Aid Challenge |
+| 6 | Orienteering (map and compass) | Hidden Treasure Hunt |
+| 7 | Orienteering (estimating height) | Lookout Tower Height Challenge |
 
 More stations will be added over time.
 
@@ -52,6 +53,7 @@ Skill references linked from the stations ([Troop Leader Resources](https://troo
 
 - Fire building: [Fire Building](https://troopleader.scouting.org/rank-advancement-skills/campcraft/fire-building/), [NPR: Summer Science, How To Build A Campfire](https://www.npr.org/2012/06/04/154162859/summer-science-how-to-build-a-campfire)
 - Orienteering: [Orienteering program feature](https://troopleader.scouting.org/program-features/orienteering/), [Navigation and Measurements](https://troopleader.scouting.org/rank-advancement-skills/campcraft/navigation-and-measurements/)
+- Knife, axe and saw: [Scouting America: Totin' Chip](https://www.scouting.org/awards/awards-central/totin-chip/), [Troop Leader Resources: Woods tools](https://troopleader.scouting.org/rank-advancement-skills/campcraft/woods-tools/), [Troop 60: Knife, axe and saw skills](https://www.troop60.co/resources/scout-skills/knife-axe-and-saw-skills), and Scout Life articles on [the ax](https://scoutlife.org/outdoors/157237/how-to-use-an-ax-to-chop-wood/), [sharpening an ax](https://scoutlife.org/outdoors/outdoorarticles/2247/how-to-sharpen-an-ax/) and [camp saws](https://scoutlife.org/video-audio/146361/how-to-use-a-camp-saw/); content also from Troop 321's own Totin' Chip card and woods-tools handouts
 - Knots: [Troop Leader Resources: Basic knots](https://troopleader.scouting.org/rank-advancement-skills/campcraft/basic-knots/), [Scouts BSA rank requirements (2025)](https://www.scouting.org/wp-content/uploads/2026/02/3321625-Scouts-BSA-Requirements.pdf) and [Animated Knots: Scouting knots](https://www.animatedknots.com/scouting-knots)
 - Lashing and pioneering: [Lashings](https://troopleader.scouting.org/rank-advancement-skills/pioneering/lashings/), [Pioneering program feature](https://troopleader.scouting.org/program-features/pioneering/information/), and step-by-step lashing and hitch animations from [Animated Knots](https://www.animatedknots.com/scouting-knots)
 - First aid: [First Aid program feature](https://troopleader.scouting.org/program-features/first-aid/information/)
